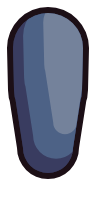
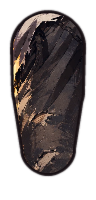
Preacher: painted art from the new illustration
- tools/art/painted_fighter.py: cuts a fighter's head, portrait, VS bust and body
  parts (upper arm, forearm, wrapped fist, shirt, trousers) out of one painted
  illustration and fits them onto the rig; title lettering and badges excluded
- square portraits (select tiles, HUD) for every fighter
- rebuilt fighter rigs

Claude-Session: https://claude.ai/code/session_01RSDmFiqEh1C5Zz5g5fudbB

diff --git a/tools/art/painted_fighter.py b/tools/art/painted_fighter.py
@@ -1,0 +1,246 @@
+"""Builds a fighter's game art from one painted character illustration.
+
+Run from the repo root:  python3 tools/art/painted_fighter.py preacher
+Needs: pillow, numpy, opencv-python-headless, rembg (pip install "rembg[cpu]").
+
+Every body part is lifted straight from the painting: a strip of the image along a limb is
+straightened onto the rig's bone and trimmed to the part's shape, so the in-game fighter keeps
+the illustration's brushwork. Outputs go to game/art/fighters/<id>/ with the same file names and
+pivots the rig builder expects (head.webp, portrait.webp, bust.webp, torso.png, upper_arm.png,
+forearm.png, fist.png, thigh.png, shin.png; shoe.png is kept). Then rebuild the rigs:
+    godot --headless --path game -s res://tools/build_fighters.gd
+
+To add another painted fighter, copy the SPEC entry and fill in coordinates on that image
+(open it in any editor that shows pixel positions). Coordinates are in the source image.
+"""
+import json
+import os
+import sys
+
+import cv2
+import numpy as np
+from PIL import Image, ImageDraw, ImageFilter
+
+S = 2  # parts are rendered at 2x
+
+SPEC = {
+    "preacher": {
+        "source": "source-art/fighter-preacher-painted.webp",
+        "mirror": True,  # the painting faces left; fighters face right
+        # areas that must never be used (title lettering, badges, the second large face)
+        "exclude": [
+            [(0, 0), (480, 0), (480, 195), (375, 200), (340, 240), (330, 280), (0, 280)],
+            [(560, 0), (1024, 0), (1024, 760), (935, 760), (845, 635), (760, 585), (700, 555), (650, 530),
+             (612, 442), (668, 420), (668, 388), (628, 330), (606, 268), (572, 190)],
+            [(0, 1170), (470, 1170), (470, 1536), (0, 1536)],
+        ],
+        "head": [(345, 250), (380, 212), (425, 203), (500, 205), (548, 222), (586, 280), (626, 352), (662, 393),
+                 (662, 418), (612, 418), (582, 410), (560, 432), (542, 470), (505, 503), (440, 500), (380, 488),
+                 (358, 470), (352, 425), (350, 372), (358, 318), (348, 282)],
+        "neck": (478, 497),          # where the head meets the neck
+        "headH": 74,                 # head height in game units
+        "portrait": (554, 0, 1024, 470),
+        "bust": (60, 190, 990, 1170),
+        # limb strips: start point, end point, strip width (all in source pixels)
+        "upper_arm": [(690, 655), (885, 800), 130],
+        "forearm": [(118, 800), (238, 648), 105],
+        "thigh": [(560, 1085), (770, 1330), 240],
+        "shin": [(770, 1330), (905, 1515), 200],
+        "fist": [(640, 850, 945, 1095), (905, 905), (690, 1000)],  # crop box, wrist, knuckles
+        "torso": (345, 560, 690, 1040),
+        "skin": (196, 136, 98),
+        "pants": (52, 46, 46),
+    },
+}
+
+# part canvas [w, h, pivotX, pivotY] in game units; must match tools/rig/render_parts.mjs
+PARTS = {"torso": (96, 132, 48, 112), "upper_arm": (48, 84, 24, 24), "forearm": (40, 72, 20, 20), "fist": (40, 40, 20, 20),
+         "thigh": (48, 100, 24, 24), "shin": (40, 92, 20, 20), "shoe": (56, 36, 18, 18)}
+LIMB = {"upper_arm": (38, [14, 16.5, 11.5]), "forearm": (35, [11.5, 13, 8.5]), "thigh": (50, [17.5, 17, 12.5]), "shin": (52, [12.5, 14, 10])}
+INK = (24, 16, 20)
+
+
+def poly_mask(size, polys, fill=255, base=0):
+    m = Image.new("L", size, base)
+    d = ImageDraw.Draw(m)
+    for p in polys:
+        d.polygon(p, fill=fill)
+    return m
+
+
+def cutout(img, keep_poly=None, exclude=()):
+    from rembg import new_session, remove
+    a = remove(img, session=new_session("u2net_human_seg")).getchannel("A")
+    if keep_poly:
+        a = Image.fromarray(np.minimum(np.array(a), np.array(poly_mask(img.size, [keep_poly]))))
+    if exclude:
+        a = Image.fromarray(np.minimum(np.array(a), np.array(poly_mask(img.size, exclude, fill=0, base=255))))
+    out = img.convert("RGBA")
+    out.putalpha(a)
+    return out
+
+
+def pad(im, p):
+    o = Image.new("RGBA", (im.width + 2 * p, im.height + 2 * p), (0, 0, 0, 0))
+    o.paste(im, (p, p))
+    return o
+
+
+def outline(rgba, px=3, color=INK):
+    a = np.array(rgba.getchannel("A"))
+    k = cv2.getStructuringElement(cv2.MORPH_ELLIPSE, (px * 2 + 1, px * 2 + 1))
+    ring = cv2.dilate(a, k)
+    base = Image.new("RGBA", rgba.size, color + (0,))
+    base.putalpha(Image.fromarray(ring).filter(ImageFilter.GaussianBlur(0.6)))
+    base.alpha_composite(rgba)
+    return base
+
+
+def capsule_mask(w, h, segs, ss=4):
+    """Antialiased union of tapered capsules, segs in output pixels: (x1,y1,x2,y2,r1,r2)."""
+    m = np.zeros((h * ss, w * ss), np.uint8)
+    for x1, y1, x2, y2, r1, r2 in segs:
+        p1, p2 = np.array([x1, y1]) * ss, np.array([x2, y2]) * ss
+        cv2.circle(m, tuple(int(v) for v in p1), int(r1 * ss), 255, -1)
+        cv2.circle(m, tuple(int(v) for v in p2), int(r2 * ss), 255, -1)
+        d = p2 - p1
+        n = np.array([-d[1], d[0]]) / (np.linalg.norm(d) + 1e-6)
+        quad = np.array([p1 + n * r1 * ss, p2 + n * r2 * ss, p2 - n * r2 * ss, p1 - n * r1 * ss], np.int32)
+        cv2.fillConvexPoly(m, quad, 255)
+    return cv2.resize(m, (w, h), interpolation=cv2.INTER_AREA)
+
+
+def strip(src, A, B, width_src, out_w, out_h, pivot, length, rmax):
+    """Straighten the band of `src` from A to B (width width_src) onto a vertical bone of `length`."""
+    A, B = np.array(A, float), np.array(B, float)
+    u = B - A
+    n = np.array([-u[1], u[0]]) / np.linalg.norm(u)
+    ys, xs = np.mgrid[0:out_h, 0:out_w].astype(np.float32)
+    lx = (xs / S - pivot[0]) / rmax          # -1..1 across the limb
+    ly = (ys / S - pivot[1]) / length         # 0..1 along the bone
+    mx = (A[0] + u[0] * ly + n[0] * lx * width_src / 2).astype(np.float32)
+    my = (A[1] + u[1] * ly + n[1] * lx * width_src / 2).astype(np.float32)
+    return cv2.remap(src, mx, my, cv2.INTER_LINEAR, borderMode=cv2.BORDER_REFLECT)
+
+
+def main(fid):
+    sp = SPEC[fid]
+    out_dir = f"game/art/fighters/{fid}/"
+    src_img = Image.open(sp["source"]).convert("RGB")
+    src = np.array(src_img)
+    mirror = sp["mirror"]
+
+    # --- head (in-game) ---
+    head = cutout(src_img, sp["head"], sp["exclude"])
+    bb = head.getbbox()
+    head = head.crop(bb)
+    anc = (sp["neck"][0] - bb[0], sp["neck"][1] - bb[1])
+    if mirror:
+        head = head.transpose(Image.FLIP_LEFT_RIGHT)
+        anc = (head.width - anc[0], anc[1])
+    k = 300 / head.height
+    head = head.resize((round(head.width * k), 300), Image.LANCZOS)
+    anc = (round(anc[0] * k), round(anc[1] * k))
+    head = outline(pad(head, 6), 3)
+    anc = (anc[0] + 6, anc[1] + 6)
+    head.save(out_dir + "head.webp", quality=92)
+
+    # --- portrait (select screen tiles, HUD) ---
+    por = src_img.crop(sp["portrait"])
+    por = por.resize((320, 320), Image.LANCZOS)
+    por.save(out_dir + "portrait.webp", quality=88)
+
+    # --- bust (VS splash, select panel) ---
+    full = cutout(src_img, None, sp["exclude"])
+    bust = full.crop(sp["bust"])
+    bust = bust.crop(bust.getbbox())
+    if mirror:
+        bust = bust.transpose(Image.FLIP_LEFT_RIGHT)
+    bust = bust.resize((bust.width * 52 // 100, bust.height * 52 // 100), Image.LANCZOS)
+    outline(pad(bust, 6), 3).save(out_dir + "bust.webp", quality=86)
+
+    meta = {"scale": 1 / S, "headAnchor": list(anc), "headH": sp["headH"], "parts": {}}
+
+    # --- limbs ---
+    for name, (length, (r0, r1, r2)) in LIMB.items():
+        w, h, px, py = PARTS[name]
+        A, B, wsrc = sp[name]
+        rmax = max(r0, r1, r2)
+        tex = strip(src, A, B, wsrc, w * S, h * S, (px, py), length, rmax)
+        m1 = 0.42 if name in ("upper_arm", "thigh") else 0.32
+        segs = [(px * S, py * S, px * S, (py + length * m1) * S, r0 * S, r1 * S),
+                (px * S, (py + length * m1) * S, px * S, (py + length) * S, r1 * S, r2 * S)]
+        mask = capsule_mask(w * S, h * S, segs)
+        part = Image.fromarray(tex).convert("RGBA")
+        part.putalpha(Image.fromarray(mask))
+        outline(part, 3).save(out_dir + name + ".png")
+        meta["parts"][name] = {"pivot": [px, py], "size": [w, h]}
+
+    # --- fist: the wrapped fist, turned so the knuckles continue the forearm (pointing down) ---
+    x0, y0, x1, y1 = sp["fist"][0]
+    wrist = np.array(sp["fist"][1], float) - [x0, y0]
+    knuck = np.array(sp["fist"][2], float) - [x0, y0]
+    fist = full.crop((x0, y0, x1, y1))
+    d = knuck - wrist
+    ang = np.degrees(np.arctan2(d[0], d[1]))      # angle of wrist→knuckles from straight down
+    rot = fist.rotate(-ang, resample=Image.BICUBIC, expand=True)
+    def rpt(p):  # where a crop point lands after rotate(expand=True)
+        c0 = np.array(fist.size) / 2
+        c1 = np.array(rot.size) / 2
+        t = np.radians(ang)
+        v = p - c0
+        return c1 + np.array([v[0] * np.cos(t) - v[1] * np.sin(t), v[0] * np.sin(t) + v[1] * np.cos(t)])
+    mid = (rpt(wrist) + rpt(knuck)) / 2
+    w, h, px, py = PARTS["fist"]
+    scale = 28 * S / np.linalg.norm(d)            # wrist→knuckles spans ~28 game units… of a 2x canvas
+    rot = rot.resize((round(rot.width * scale), round(rot.height * scale)), Image.LANCZOS)
+    mid = mid * scale
+    out = Image.new("RGBA", (w * S, h * S), (0, 0, 0, 0))
+    out.alpha_composite(rot, (round(px * S - mid[0]), round(py * S - mid[1] + 2 * S)))
+    # keep only the fist itself (the crop box also catches a little background)
+    keep = Image.new("L", out.size, 0)
+    ImageDraw.Draw(keep).ellipse([(px - 14) * S, (py - 12) * S, (px + 14) * S, (py + 16) * S], fill=255)
+    keep = keep.filter(ImageFilter.GaussianBlur(1.2))
+    out.putalpha(Image.fromarray(np.minimum(np.array(out.getchannel("A")), np.array(keep))))
+    if mirror:
+        out = out.transpose(Image.FLIP_LEFT_RIGHT)
+    outline(out, 2).save(out_dir + "fist.png")
+    meta["parts"]["fist"] = {"pivot": [px, py], "size": [w, h]}
+
+    # --- torso: the shirt, fitted into the rig's torso shape, with the neck and waistband ---
+    w, h, px, py = PARTS["torso"]
+    T = 74
+    shirt = src_img.crop(sp["torso"])
+    if mirror:
+        shirt = shirt.transpose(Image.FLIP_LEFT_RIGHT)
+    tw, th = 78, T + 12
+    shirt = shirt.resize((tw * S, th * S), Image.LANCZOS).convert("RGBA")
+    canvas = Image.new("RGBA", (w * S, h * S), (0, 0, 0, 0))
+    o = lambda x, y: ((px + x) * S, (py + y) * S)
+    # neck
+    nd = ImageDraw.Draw(canvas)
+    sk = tuple(sp["skin"])
+    nd.rounded_rectangle([o(-9, -T - 16), o(9, -T + 8)], radius=8 * S, fill=sk + (255,), outline=INK + (255,), width=2 * S)
+    nd.line([o(-3, -T - 14), o(-3, -T + 4)], fill=tuple(int(v * 0.75) for v in sk) + (255,), width=3 * S)
+    body = Image.new("RGBA", canvas.size, (0, 0, 0, 0))
+    body.paste(shirt, (round((px - tw / 2) * S), round((py - T - 6) * S)))
+    shape = [o(-24, 6), o(24, 6), o(29, -T * .45), o(36, -T + 16), o(34, -T - 3), o(12, -T - 6), o(-14, -T - 6),
+             o(-37, -T - 2), o(-37, -T + 16), o(-29, -T * .45)]
+    m = poly_mask(canvas.size, [shape]).filter(ImageFilter.GaussianBlur(0.8))
+    body.putalpha(Image.fromarray(np.minimum(np.array(body.getchannel("A")), np.array(m))))
+    body = outline(body, 3)
+    canvas.alpha_composite(body)
+    bd = ImageDraw.Draw(canvas)
+    pc = tuple(sp["pants"])
+    bd.rectangle([o(-26, -2), o(26, 9)], fill=INK + (255,))
+    bd.rectangle([o(-24, 0), o(24, 7)], fill=pc + (255,))
+    canvas.save(out_dir + "torso.png")
+    meta["parts"]["torso"] = {"pivot": [px, py], "size": [w, h]}
+    meta["parts"]["shoe"] = {"pivot": list(PARTS["shoe"][2:]), "size": list(PARTS["shoe"][:2])}
+
+    json.dump(meta, open(out_dir + "parts.json", "w"), indent=1)
+    print("built", fid, "head anchor", anc)
+
+
+if __name__ == "__main__":
+    main(sys.argv[1] if len(sys.argv) > 1 else "preacher")

diff --git a/README.md b/README.md
@@ -79,8 +79,13 @@ The game itself is hosted on **GitHub Pages** by the workflow in `.github/workfl
 3. Add the fighter to `Sim.CHARS` (stats) and `Chars.LIST` (name, tag line, super name).
 4. Rebuild rigs: `godot --headless --path game -s res://tools/build_fighters.gd`.
 
-Better art (a painted head and separate body parts from an artist or an AI art tool) drops
-straight into `game/art/fighters/<id>/` with the same file names.
+**Painted style (the target look):** from one painted illustration of the fighter, run
+`python3 tools/art/painted_fighter.py <id>` after adding a `SPEC` entry with coordinates on that
+image: the head, a close-up for the portrait, and a strip along the upper arm, forearm, thigh and
+shin, the fist and the shirt. It cuts those pieces out of the painting and fits them onto the rig.
+Best source image: full body in a side-on fighting stance facing either way, plain background,
+no text or logos, plus a head-and-shoulders close-up (a "character sheet" with separate limbs is
+even better).
 
 ### Adding a stage
 
